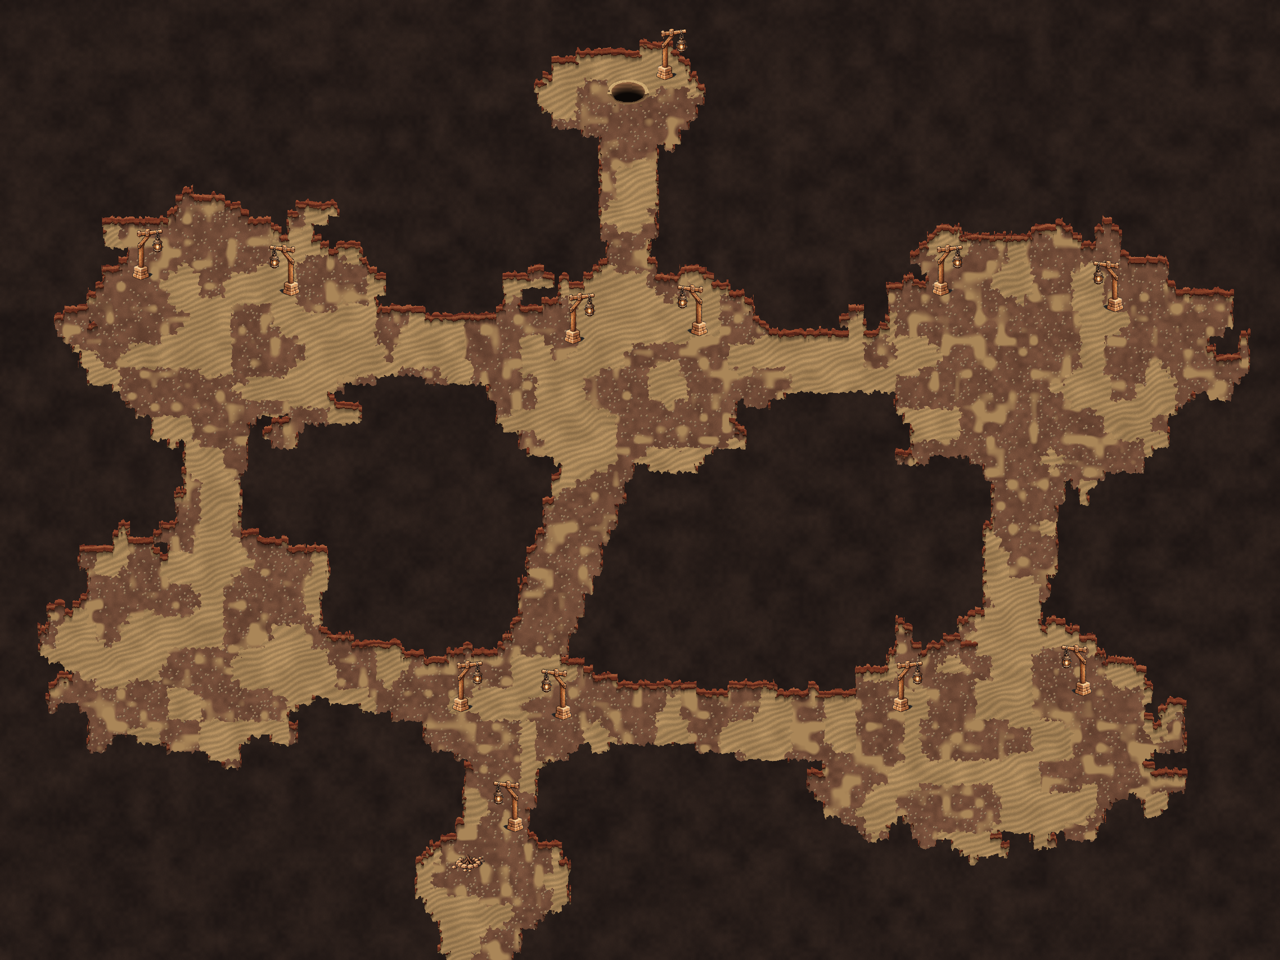
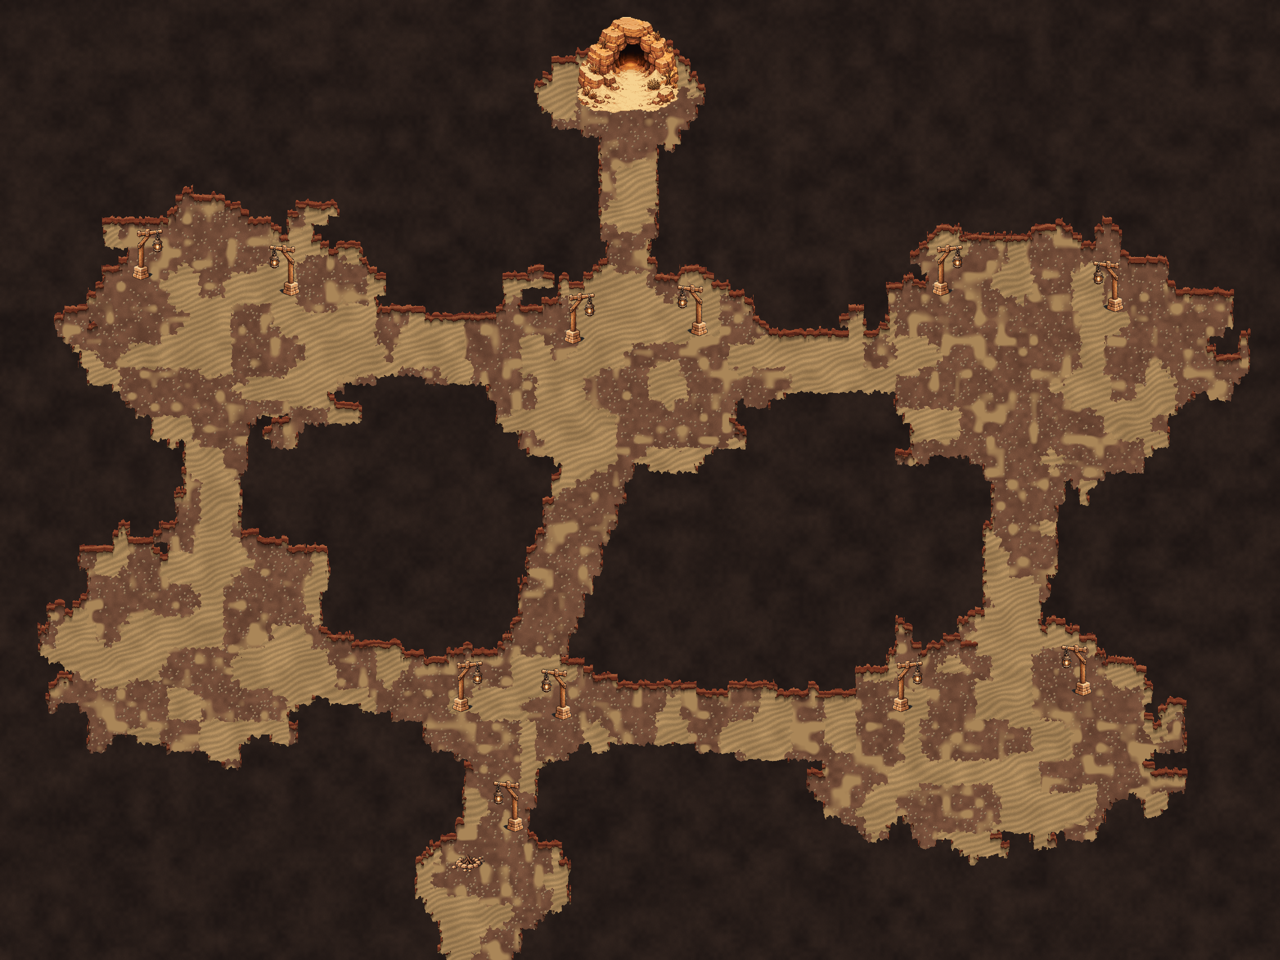
Gruta: boca de caverna na parede da Câmara do Fundo para o Lago (em revisão)
Claude-Session: https://claude.ai/code/session_01DxMENvJSpBJLKVoAtLL83c

Changed region(s): [[0.4375, 0.0, 0.5312, 0.125]]

diff --git a/mapas/Mapa_GrutaArcoVermelho/gruta_arco.js b/mapas/Mapa_GrutaArcoVermelho/gruta_arco.js
@@ -116,18 +116,19 @@ function redArchCave(){
   aScat(['rock_m','rock_tall'],3,500+k*10,(x,y)=>{const e=Math.hypot((x-h[0])/h[2],(y-h[1])/h[3]);return e>.85&&e<1.05},{fit:1,br:2,road:0});
   torch(Math.round(h[0]-h[2]*.6),Math.round(h[1]-h[3]*.6));torch(Math.round(h[0]+h[2]*.6),Math.round(h[1]-h[3]*.6),{flip:true})}
  torch(55,85);torch(73,85,{flip:true});
- /* Câmara do Fundo: um buraco no chão (poço escuro, pintado no ov) que desce para o Lago Subterrâneo (lg). A porta são os
-    tiles do meio do buraco; chega no Lago em (60, 126). Sem postes na câmara: só uma tocha na parede. */
- {const og=oc.getContext('2d'),cx=78*T+8,cy=11*T+8,rx=34,ry=20,P=(c,x,y)=>{og.fillStyle=c;og.fillRect(x,y,1,1)};
-  for(let y=cy-ry-8;y<=cy+ry+8;y++)for(let x=cx-rx-8;x<=cx+rx+8;x++){const u=(x-cx)/rx,v=(y-cy)/ry,e=u*u+v*v+(vn(x,y,9,150)-.5)*.22;
-   if(e<1){/* dentro: a parede de arenito do fundo (em cima) sumindo no escuro */const top=cy-ry*Math.sqrt(Math.max(0,1-u*u)),t=Math.min(1,(y-top)/(ry*1.1));
-    const lay=((y>>2)+(hq(x>>3,3)<.5?1:0))&1,k=(1-t)*(lay?1:.85);P('rgb('+((12+140*k)|0)+','+((8+96*k)|0)+','+((6+62*k)|0)+')',x,y)}
-   else if(e<1.5){/* borda: areia clara no alto e à esquerda, sombra embaixo */const lit=v<.2;
-    P(lit?(hq(x,y)<.15?'rgb(222,186,128)':'rgb(200,164,110)'):(e<1.2?'rgb(92,66,44)':'rgb(132,98,64)'),x,y)}}
-  for(const [ox,oy] of[[-rx-6,-4],[rx+4,2],[-rx+6,ry+4],[rx-10,ry+5]]){og.fillStyle='rgb(120,88,60)';og.fillRect(cx+ox,cy+oy,4,3);og.fillStyle='rgb(70,50,34)';og.fillRect(cx+ox,cy+oy+3,4,1)}
-  dark.push([cx,cy,90,.6]);
-  const ct=mkA('lamppost');put(ct,(84*T)-(ct.width>>1),10*T);fx.lamp.push([84*T-(ct.width>>1)+ct.width-18,10*T-ct.height+32]);dark.push([84*T,8*T,120,1]);
-  const c=[];for(let y=10;y<=12;y++)for(let x=76;x<=80;x++){const u=(x*T+8-cx)/rx,v=(y*T+8-cy)/ry;if(u*u+v*v<.75&&F[y*W+x])c.push(x,y)}
+ /* Câmara do Fundo: uma boca de caverna na parede do fundo (a entrada cor de areia da folha_cavernas, a mesma aprovada no
+    Acampamento) — o caminho natural que desce para o Lago Subterrâneo (lg). A areia do funil vai no ov; a pedra em volta
+    da boca e as pedrinhas dos lados são objetos. A porta são os tiles da boca; chega no Lago em (60, 126). */
+ {const g={"w": 202, "h": 192, "boca": [72, 52, 147, 104], "split": 116},cx=78*T+8;let dr=0;for(let y=2;y<20;y++){if(F[y*W+78]){dr=y;break}}dr+=1;
+  const x0=Math.round(cx-g.w/2),top=(dr+1)*T-6-g.boca[3];
+  oc.getContext('2d').drawImage(ART.cave_sand_chao,x0,top);
+  const cut=(img,y0,hh)=>{const [c,,q]=cmCv(g.w,hh);q.drawImage(img,0,-y0);return c};
+  put(cut(ART.cave_sand_fundo,0,g.split),x0,top+g.split);put(cut(ART.cave_sand_frente,g.split,g.h-g.split),x0,top+g.h);
+  const mx0=Math.floor((x0+g.boca[0]+6)/T),mx1=Math.floor((x0+g.boca[2]-6)/T),tx0=Math.floor(x0/T),tx1=Math.floor((x0+g.w-1)/T);
+  for(let y=dr-3;y<=dr;y++)for(let x=tx0;x<=tx1;x++)if(x>=0&&y>=0&&(y<dr||x<mx0||x>mx1))S[y*W+x]=1;
+  for(let y=dr+1;y<=dr+3;y++)for(const x of[tx0,tx0+1,tx1-1,tx1])if(x>=0&&y<H)S[y*W+x]=1;
+  dark.push([x0+((g.boca[0]+g.boca[2])>>1),top+g.boca[3]-6,70,.85]);
+  const c=[];for(let x=mx0;x<=mx1;x++){F[dr*W+x]=1;S[dr*W+x]=0;c.push(x,dr)}
   DOORS.push({m:'lg',cells:c,x:60*16+8,y:126*16})}
  /* poeira no ar e areia escorrendo do teto */
  for(let k=0;k<90;k++){const x=4+hq(k,61)*(W-8)|0,y=4+hq(k,62)*(H-8)|0;if(F[y*W+x])fx.dust.push([x*T+8,y*T+8,hq(k,63)*6.28])}

diff --git a/visualizador_ferramentas/gera_cavernas.py b/visualizador_ferramentas/gera_cavernas.py
@@ -142,18 +142,19 @@ GRUTA = dict(
   aScat(['rock_m','rock_tall'],3,500+k*10,(x,y)=>{const e=Math.hypot((x-h[0])/h[2],(y-h[1])/h[3]);return e>.85&&e<1.05},{fit:1,br:2,road:0});
   torch(Math.round(h[0]-h[2]*.6),Math.round(h[1]-h[3]*.6));torch(Math.round(h[0]+h[2]*.6),Math.round(h[1]-h[3]*.6),{flip:true})}
  torch(55,85);torch(73,85,{flip:true});
- /* Câmara do Fundo: um buraco no chão (poço escuro, pintado no ov) que desce para o Lago Subterrâneo (lg). A porta são os
-    tiles do meio do buraco; chega no Lago em (60, 126). Sem postes na câmara: só uma tocha na parede. */
- {const og=oc.getContext('2d'),cx=78*T+8,cy=11*T+8,rx=34,ry=20,P=(c,x,y)=>{og.fillStyle=c;og.fillRect(x,y,1,1)};
-  for(let y=cy-ry-8;y<=cy+ry+8;y++)for(let x=cx-rx-8;x<=cx+rx+8;x++){const u=(x-cx)/rx,v=(y-cy)/ry,e=u*u+v*v+(vn(x,y,9,150)-.5)*.22;
-   if(e<1){/* dentro: a parede de arenito do fundo (em cima) sumindo no escuro */const top=cy-ry*Math.sqrt(Math.max(0,1-u*u)),t=Math.min(1,(y-top)/(ry*1.1));
-    const lay=((y>>2)+(hq(x>>3,3)<.5?1:0))&1,k=(1-t)*(lay?1:.85);P('rgb('+((12+140*k)|0)+','+((8+96*k)|0)+','+((6+62*k)|0)+')',x,y)}
-   else if(e<1.5){/* borda: areia clara no alto e à esquerda, sombra embaixo */const lit=v<.2;
-    P(lit?(hq(x,y)<.15?'rgb(222,186,128)':'rgb(200,164,110)'):(e<1.2?'rgb(92,66,44)':'rgb(132,98,64)'),x,y)}}
-  for(const [ox,oy] of[[-rx-6,-4],[rx+4,2],[-rx+6,ry+4],[rx-10,ry+5]]){og.fillStyle='rgb(120,88,60)';og.fillRect(cx+ox,cy+oy,4,3);og.fillStyle='rgb(70,50,34)';og.fillRect(cx+ox,cy+oy+3,4,1)}
-  dark.push([cx,cy,90,.6]);
-  const ct=mkA('lamppost');put(ct,(84*T)-(ct.width>>1),10*T);fx.lamp.push([84*T-(ct.width>>1)+ct.width-18,10*T-ct.height+32]);dark.push([84*T,8*T,120,1]);
-  const c=[];for(let y=10;y<=12;y++)for(let x=76;x<=80;x++){const u=(x*T+8-cx)/rx,v=(y*T+8-cy)/ry;if(u*u+v*v<.75&&F[y*W+x])c.push(x,y)}
+ /* Câmara do Fundo: uma boca de caverna na parede do fundo (a entrada cor de areia da folha_cavernas, a mesma aprovada no
+    Acampamento) — o caminho natural que desce para o Lago Subterrâneo (lg). A areia do funil vai no ov; a pedra em volta
+    da boca e as pedrinhas dos lados são objetos. A porta são os tiles da boca; chega no Lago em (60, 126). */
+ {const g={"w": 202, "h": 192, "boca": [72, 52, 147, 104], "split": 116},cx=78*T+8;let dr=0;for(let y=2;y<20;y++){if(F[y*W+78]){dr=y;break}}dr+=1;
+  const x0=Math.round(cx-g.w/2),top=(dr+1)*T-6-g.boca[3];
+  oc.getContext('2d').drawImage(ART.cave_sand_chao,x0,top);
+  const cut=(img,y0,hh)=>{const [c,,q]=cmCv(g.w,hh);q.drawImage(img,0,-y0);return c};
+  put(cut(ART.cave_sand_fundo,0,g.split),x0,top+g.split);put(cut(ART.cave_sand_frente,g.split,g.h-g.split),x0,top+g.h);
+  const mx0=Math.floor((x0+g.boca[0]+6)/T),mx1=Math.floor((x0+g.boca[2]-6)/T),tx0=Math.floor(x0/T),tx1=Math.floor((x0+g.w-1)/T);
+  for(let y=dr-3;y<=dr;y++)for(let x=tx0;x<=tx1;x++)if(x>=0&&y>=0&&(y<dr||x<mx0||x>mx1))S[y*W+x]=1;
+  for(let y=dr+1;y<=dr+3;y++)for(const x of[tx0,tx0+1,tx1-1,tx1])if(x>=0&&y<H)S[y*W+x]=1;
+  dark.push([x0+((g.boca[0]+g.boca[2])>>1),top+g.boca[3]-6,70,.85]);
+  const c=[];for(let x=mx0;x<=mx1;x++){F[dr*W+x]=1;S[dr*W+x]=0;c.push(x,dr)}
   DOORS.push({m:'lg',cells:c,x:60*16+8,y:126*16})}''')
 
 for d, pasta, arq in [(TEMPLO, 'Mapa_TemploSoterrado', 'templo_soterrado.js'), (GRUTA, 'Mapa_GrutaArcoVermelho', 'gruta_arco.js')]:
